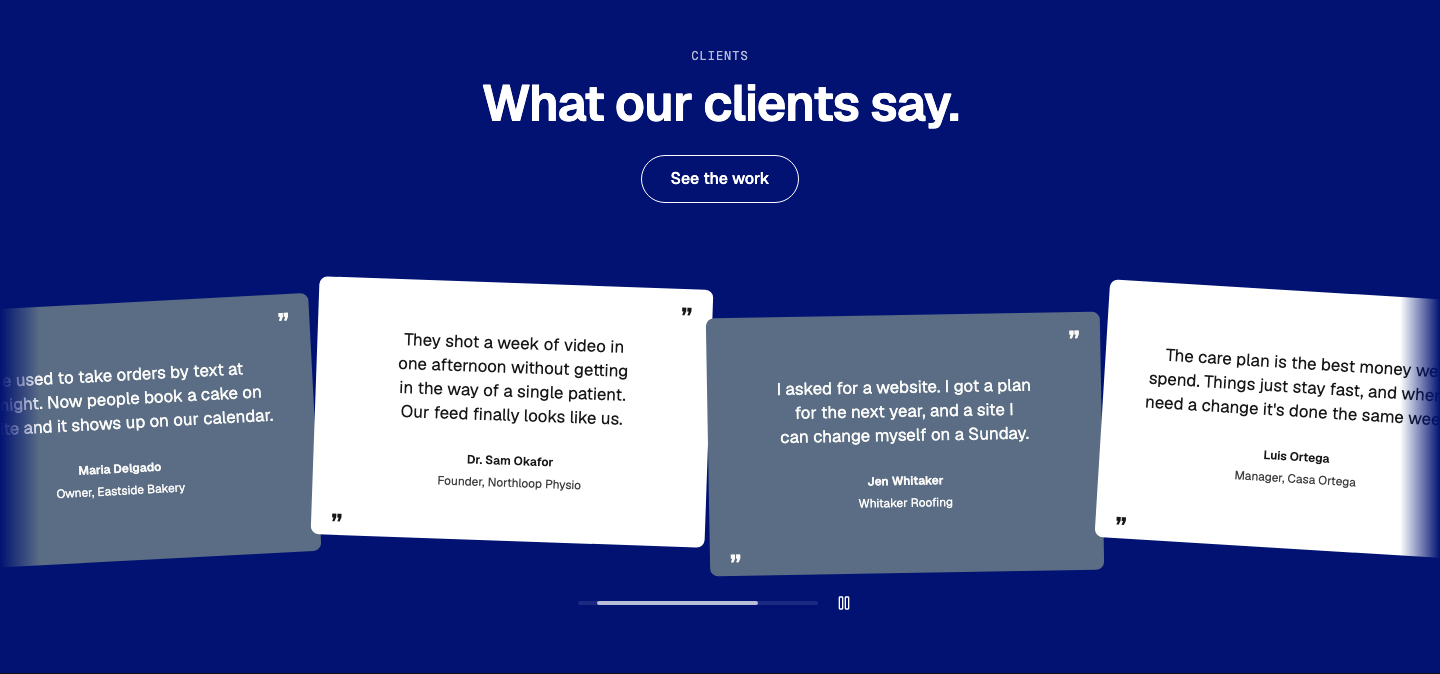
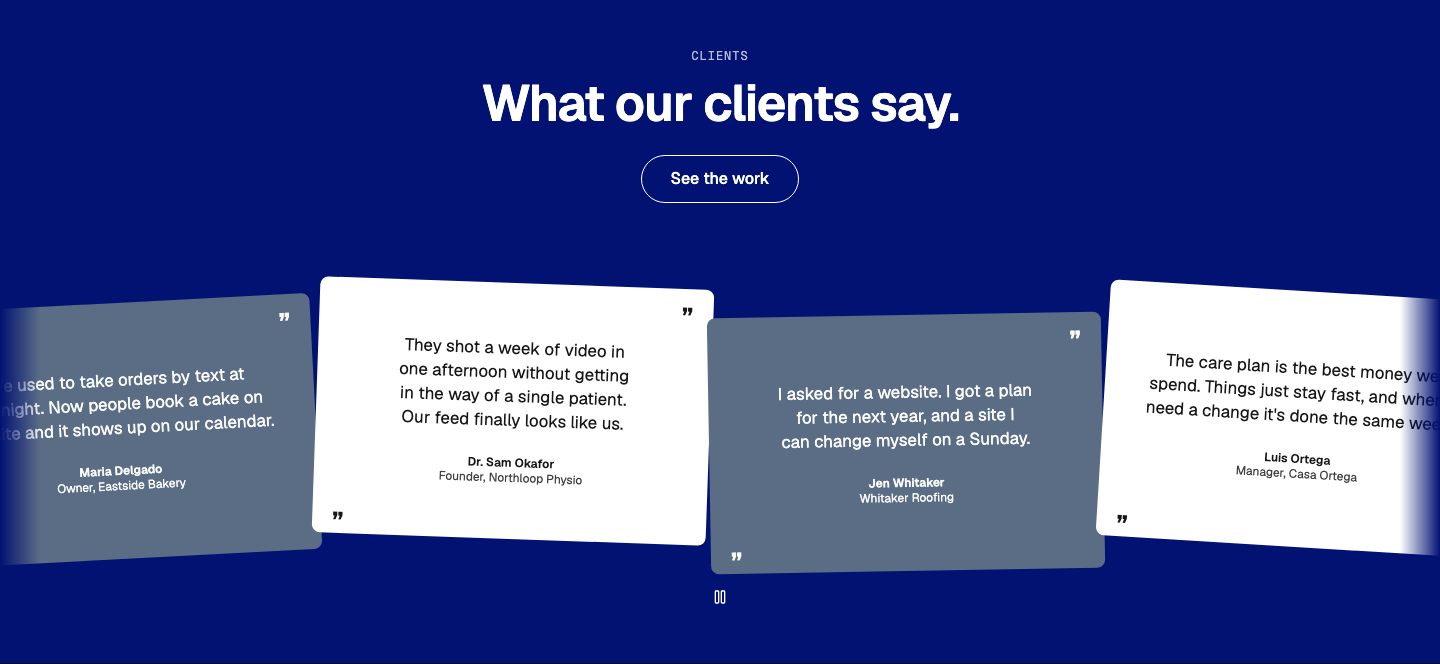
Testimonial — Tilted Cards (Randy, 2026-10-29): seamless loop (WMDS Carousel loop), tighter byline, six quotes so colours alternate across the seam

diff --git a/patterns/testimonial/tilted-cards/TestimonialTiltedCards.tsx b/patterns/testimonial/tilted-cards/TestimonialTiltedCards.tsx
@@ -4,8 +4,8 @@
  * "Client Confessions"). On a WMDS `Band`, the inverse field by default. A centred heading on top; each card
  * holds the quote, centred between two quotation marks, and a small byline. No photos.
  *
- * Motion: the row drifts slowly (WMDS Carousel `autoplay`). It holds on hover and focus, has a Pause button,
- * and doesn't move under reduced motion. A hand badge follows a mouse over the row (Carousel `cursor`).
+ * Motion: the row repeats seamlessly (WMDS Carousel `loop`) and drifts slowly one way (`autoplay`). It holds on
+ * hover and focus, has a Pause button, and doesn't move under reduced motion. A hand badge follows a mouse over the row (Carousel `cursor`).
  */
 import { useId, type ReactNode } from "react";
 import { Band, Card, Carousel, cn, type BandTone, type CardTone } from "@thewhatmatters/wmds";
@@ -26,7 +26,7 @@ export interface TestimonialTiltedCardsProps {
   heading: ReactNode;
   /** Slot, optional: one CTA under the heading, e.g. a WMDS outline `<Button>` to case studies. */
   actions?: ReactNode;
-  /** The quotes, 5–8 of them, so the row has somewhere to drift. */
+  /** The quotes, an even number from 4 to 8, so the two card colours keep alternating where the loop joins. */
   quotes: TestimonialTiltedCardsQuote[];
   /** The section's WMDS Band tone: `inverse` (default, the brand's dark surface), `field` or `default`. */
   tone?: BandTone;
@@ -68,9 +68,10 @@ const markBottomClasses = "pointer-events-none absolute bottom-0 left-5 type-hea
 /** The quote: centred, in the card's ink. */
 const quoteClasses = "type-large text-balance text-fg";
 /** The byline: smaller than the quote, the name in bold over the role. */
-const bylineClasses = "mt-6 flex flex-col items-center gap-0.5";
-const nameClasses = "type-supporting font-semibold text-fg";
-const roleClasses = "type-supporting text-muted";
+const bylineClasses = "mt-6 flex flex-col items-center gap-0";
+/** Name and role set tight together, as one byline (line height 1.25). */
+const nameClasses = "type-supporting font-semibold leading-tight text-fg";
+const roleClasses = "type-supporting leading-tight text-muted";
 
 /** A hand, pointing the way the row moves: the default follow badge. */
 const handCursor = (
@@ -123,7 +124,7 @@ export function TestimonialTiltedCards({
             aria-labelledby={headingId}
             bleed
             itemWidth={{ base: 85, md: 46, lg: 30 }}
-            progress="center"
+            loop
             autoplay={autoplay}
             cursor={cursor ?? undefined}
           >

diff --git a/patterns/testimonial/tilted-cards/example.tsx b/patterns/testimonial/tilted-cards/example.tsx
@@ -38,6 +38,11 @@ const quotes: TestimonialTiltedCardsQuote[] = [
     name: "Priya Raman",
     role: "Director, Lantern Yoga",
   },
+  {
+    quote: "We stopped apologising for our website. Now it's the first thing we send people, before the menu.",
+    name: "Tomás Reyes",
+    role: "Chef-owner, Cinder & Sotol",
+  },
 ];
 
 export default function Example(props: Partial<TestimonialTiltedCardsProps>) {

diff --git a/patterns/testimonial/tilted-cards/README.md b/patterns/testimonial/tilted-cards/README.md
@@ -25,7 +25,7 @@ import { TestimonialTiltedCards } from "./TestimonialTiltedCards";
   actions={<Button role="outline" size="lg" render={<a href="/work" />}>See the work</Button>}
   quotes={[
     { quote: "Now people book a cake on the site…", name: "Maria Delgado", role: "Owner, Eastside Bakery" },
-    // 5–8 quotes
+    // an even number, 4–8
   ]}
 />
 ```
@@ -37,7 +37,7 @@ import { TestimonialTiltedCards } from "./TestimonialTiltedCards";
 | `heading` | ReactNode | The section's `h2`, one short line, centred (WMDS `type-display-2`) |
 | `eyebrow` | ReactNode | Optional: a short label above the heading (`type-eyebrow`) |
 | `actions` | slot, optional | One CTA under the heading: a WMDS outline `<Button size="lg">` |
-| `quotes` | array | 5–8 quotes: `quote` (20–45 words, no quotation marks), `name`, optional `role` |
+| `quotes` | array | An even number of quotes, 4–8, so the two card colours keep alternating where the loop joins: `quote` (20–45 words, no quotation marks), `name`, optional `role` |
 | `tone` | `"inverse"` (default), `"field"`, `"default"` | The WMDS Band tone; everything inside re-skins with it |
 | `cardTones` | `[CardTone, CardTone]` | The two card colours the row alternates (WMDS Card `tone`). Default `["field", "light"]` |
 | `autoplay` | boolean, default `true` | The row drifts slowly on its own (WMDS Carousel `autoplay`); see Behaviour |
@@ -45,8 +45,8 @@ import { TestimonialTiltedCards } from "./TestimonialTiltedCards";
 
 ## Behaviour
 
-- **The row** is WMDS `Carousel` (`bleed`, scrubber centred under the row, Randy 2026-10-29): drag, trackpad, touch and keyboard from WMDS, named by the heading. Cards are 85% of the row on phones, 46% on tablet, 30% on desktop.
-- **Drift** (`autoplay`): about 24px a second, back and forth. It holds on hover, on focus inside the row, during a drag, off screen and in a hidden tab; a Pause / Play button sits beside the scrubber (WCAG 2.2.2); it never moves under reduced motion.
+- **The row** is WMDS `Carousel` (`bleed`, `loop`): the quotes repeat seamlessly, so the row never ends (Randy 2026-10-29). Drag, trackpad, touch and keyboard from WMDS, named by the heading; no scrubber, since a loop has no end. Cards are 85% of the row on phones, 46% on tablet, 30% on desktop.
+- **Drift** (`autoplay`): about 24px a second, one way, wrapping invisibly. It holds on hover, on focus inside the row, during a drag, off screen and in a hidden tab; a Pause / Play button sits under the row (WCAG 2.2.2: anything that moves on its own for more than 5 seconds needs a way to stop it); it never moves under reduced motion.
 - **Cursor:** a hand badge follows a mouse over the row (devices with a fine pointer that can hover only); decorative.
 - **Each quote** is an `article` card with a `figure`, `blockquote` and `figcaption` (name, role). The two quotation marks are decorative (`aria-hidden`).
 - **Centred on phones** (Headings H8): the heading holds 1 line at 390 and each quote is short, so both stay centred (measured 2026-10-29).
@@ -73,7 +73,7 @@ Full width; WMDS Band `md` spacing (48 top and bottom); eyebrow→heading 12; he
 
 ## WMDS
 
-**Needs @thewhatmatters/wmds 0.4.33** (Card `tone`, Carousel `autoplay` and `cursor`, built for this pattern on the WMDS branch `lead-engineer/card-tones-carousel-motion`); bump the pin when it publishes. Uses `Band`, `Card`, `Carousel`; the example adds `Button`.
+**Needs @thewhatmatters/wmds 0.4.33** (Card `tone`, Carousel `autoplay`, `loop` and `cursor`, built for this pattern on the WMDS branch `lead-engineer/card-tones-carousel-motion`); bump the pin when it publishes. Uses `Band`, `Card`, `Carousel`; the example adds `Button`.
 
 - **Card tones: built.** WMDS 0.4.33 adds Card `tone` (`inverse`, `field`, `light`) and a scoped light palette (`[data-theme="light"]`), so a paper card sits on a dark band.
 - **WMDS-GAP: no quote part.** There's no WMDS `Quote` / testimonial atom (marks, quote, attribution), so the pattern composes `figure` + `blockquote` + `figcaption`. Worth a WMDS part if a second testimonial pattern needs the same.
